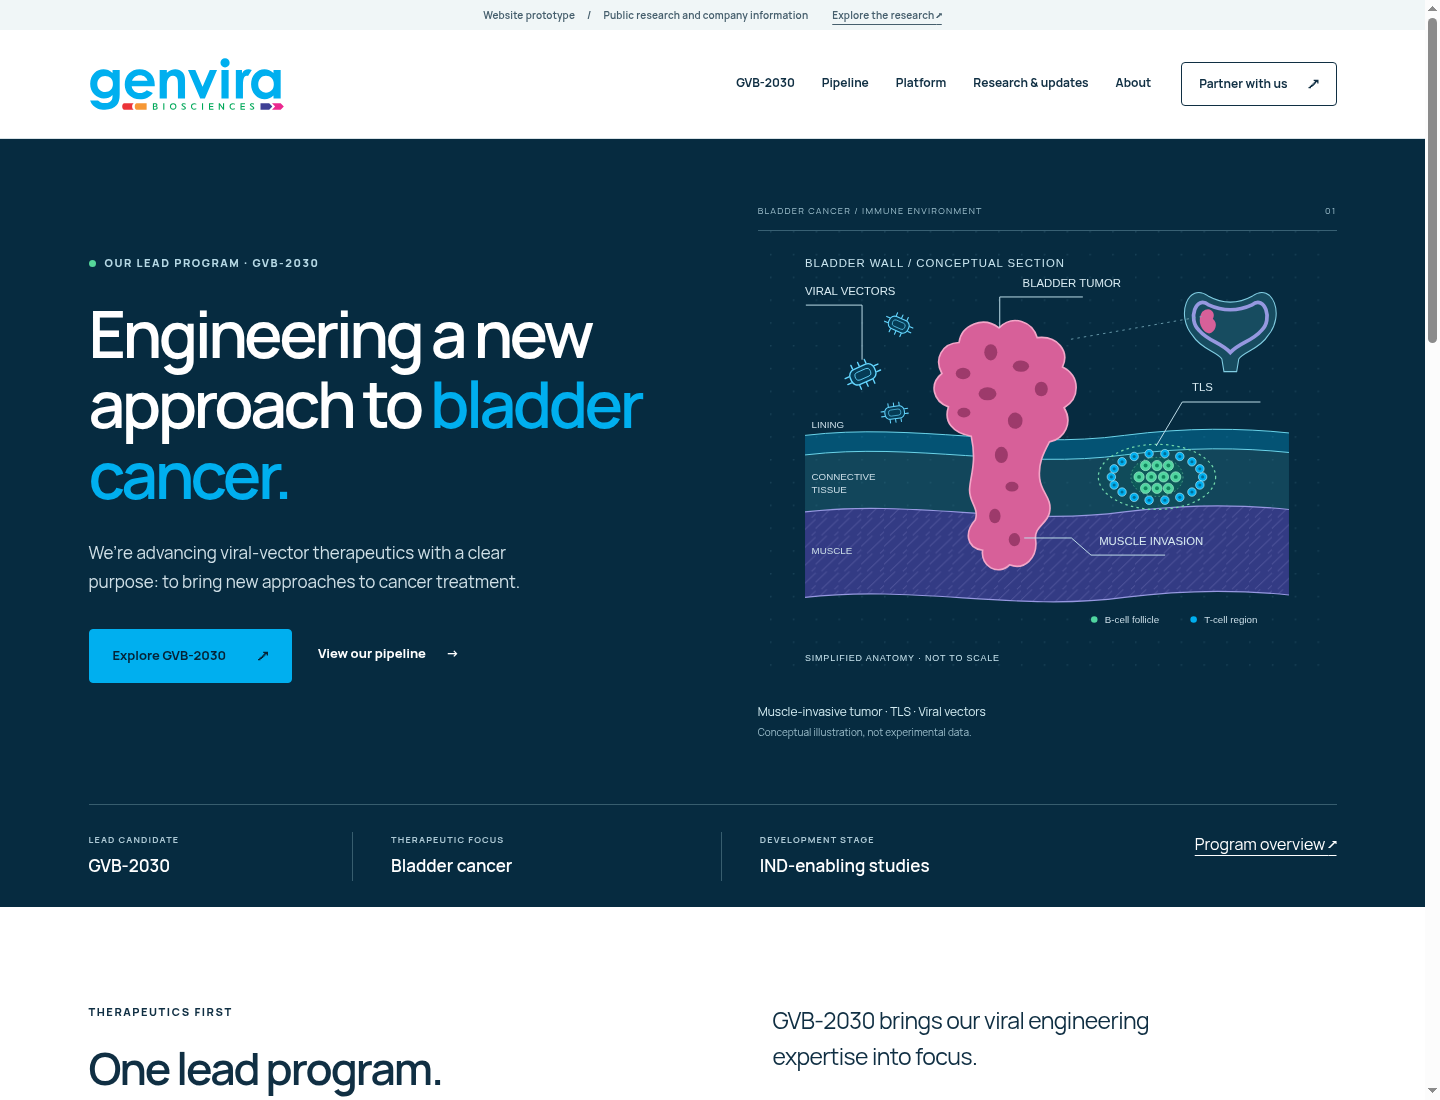
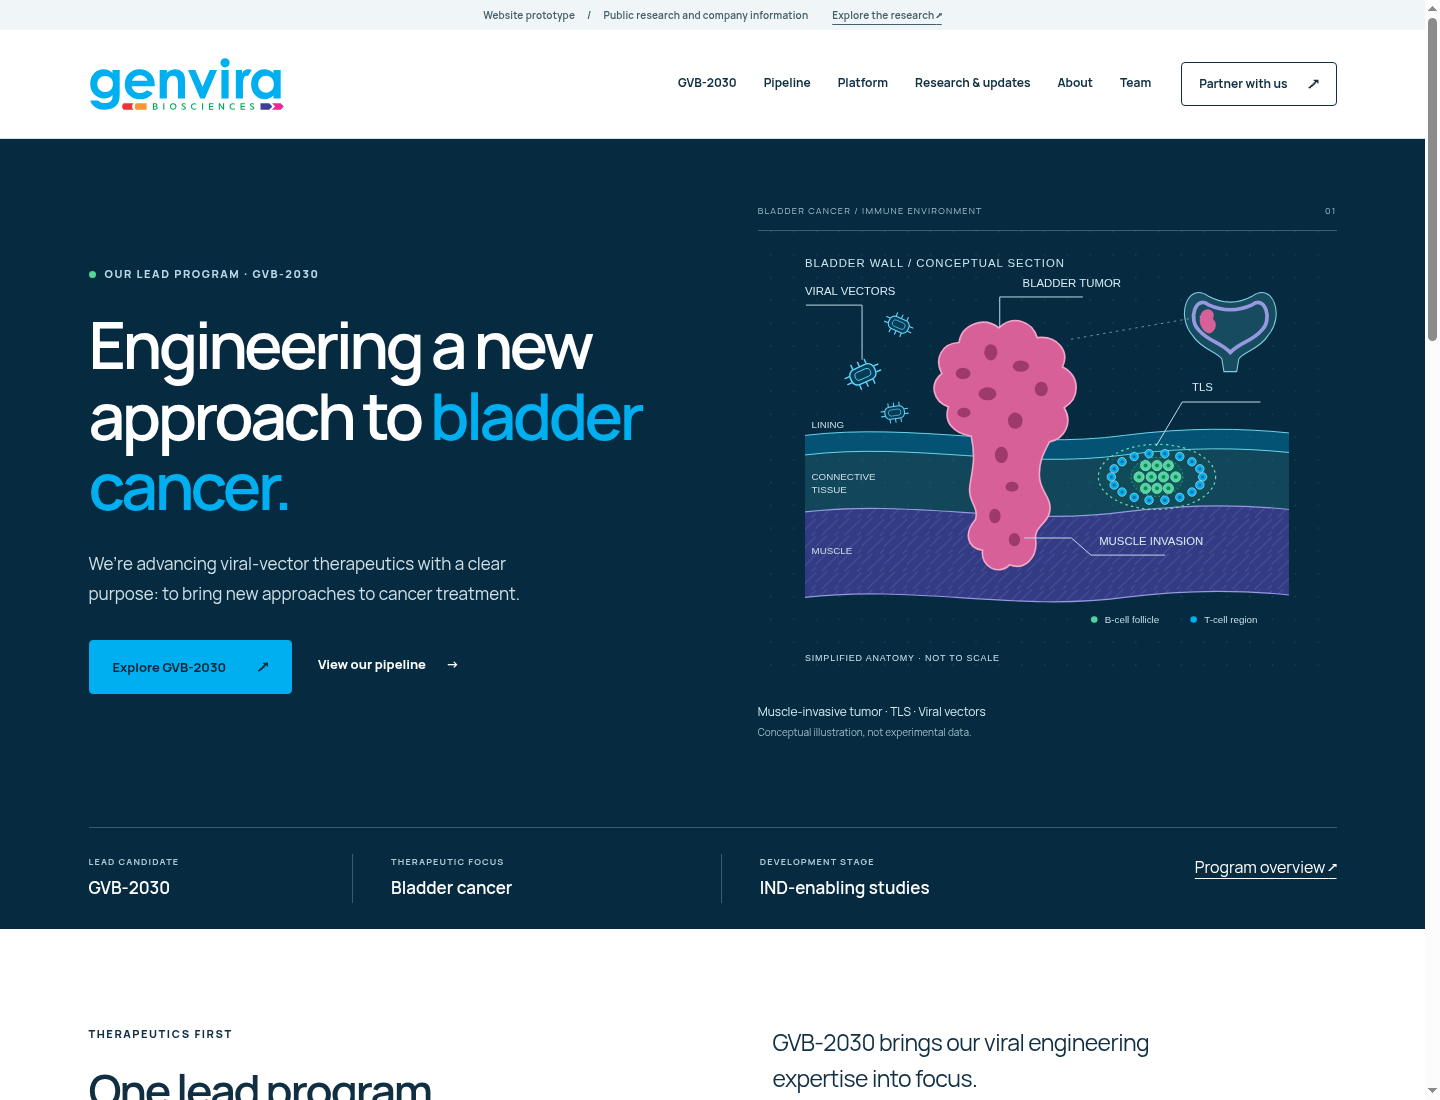
give the team a dedicated page with original bios and portraits

diff --git a/wp-content/themes/genvira/content/team.html b/wp-content/themes/genvira/content/team.html
@@ -1,0 +1,17 @@
+<nav class="team-jump shell" aria-label="Team sections"><a href="#leadership">Leadership</a><a href="#board">Board of directors</a><a href="#advisors">Advisors</a></nav>
+<section id="leadership" class="team-section"><div class="shell section"><p class="eyebrow">OUR PEOPLE</p><h2>Leadership</h2><div class="team-profiles">
+<article class="team-profile"><img src="{{asset:team-jiahu-wang.jpg}}" alt="Dr. Jiahu Wang" width="240" height="240"><div><h3>Dr. Jiahu Wang</h3><p class="team-profile-role">Founder, President</p><div class="team-profile-bio"><p>Dr. Jiahu Wang is the Founder and President of Genvira Biosciences Inc. He has spent two decades building viral vectors with a successful track record of bringing programs into the clinic.</p><p>Previously he was a cancer researcher at the Ottawa Hospital Research Institute where he led a team which designed, constructed and produced customized viral products for academic collaborators and industrial partners. Prior to that he spent 7 years working as Director, Novel Biotherapeutics at Jennerex Biotherapeutics in the U.S.</p><p>Dr. Wang completed his Postdoc in Cell Biology at the University of Virginia. He received a PhD in Chemistry from Queens University.</p></div></div></article>
+<article class="team-profile"><img src="{{asset:team-pamod-hemakumara.png}}" alt="Pamod Hemakumara" width="240" height="240"><div><h3>Pamod Hemakumara</h3><p class="team-profile-role">Corporate &amp; business development consultant</p><div class="team-profile-bio"><p>Pamod Hemakumara is a corporate and business development consultant at Genvira Biosciences Inc. He brings over a decade of experience in corporate strategy and BD across biotech, pharma, and life science sectors, having executed over $175M in transactions spanning licensing, M&amp;A, fundraising, VC investments, and strategic partnerships. Previously, Pamod was Director of Corporate Development at Quibim, where he supported the company’s Series A and led pharma and medtech partnerships. Before that, he worked with the Samsung Group on global strategy initiatives, including Samsung Biologics’ expansion into next-gen modalities such as cell and gene therapy.</p><p>He holds an MBA from IMD, a Master’s in Biomedical Technology from the University of Calgary, and a BSc in Biochemistry &amp; Molecular Biology from UNBC.</p></div></div></article>
+</div></div></section>
+<section id="board" class="team-section tinted-section"><div class="shell section"><p class="eyebrow">OUR PEOPLE</p><h2>Board of directors</h2><div class="team-profiles">
+<article class="team-profile"><img src="{{asset:team-jiahu-wang.jpg}}" alt="Dr. Jiahu Wang" width="240" height="240"><div><h3>Dr. Jiahu Wang</h3><p class="team-profile-role">Founder, President</p><div class="team-profile-bio"><p>Dr. Jiahu Wang is the founder and President of Genvira Biosciences Inc.</p><p>He has spent two decades building viral vectors with a successful track record of bringing programs into the clinic.</p></div></div></article>
+<article class="team-profile"><img src="{{asset:team-john-lin.jpg}}" alt="Dr. John Lin" width="240" height="240"><div><h3>Dr. John Lin</h3><p class="team-profile-role">Board director</p><div class="team-profile-bio"><p>Dr. John Lin is the Co-CEO of Frontage Laboratories, Inc. Before this, he served as the Executive Vice President, Bioanalytical and Biologics Services, where he led operations for the company’s global bioanalytical labs. Before joining Frontage, he served as a business leader in AstraZeneca’s global drug metabolism and pharmacokinetics (DMPK) division. Prior to AstraZeneca, Dr. Lin was Laboratory Director for Avantix Laboratories. Dr. Lin completed post-doctoral research in pharmacokinetics and metabolism at the College of Pharmacy and the Comprehensive Cancer Center of the Ohio State University. He earned a PhD in analytical chemistry from Dalhousie University in Canada.</p></div></div></article>
+<article class="team-profile"><img src="{{asset:team-jim-de-wilde.jpg}}" alt="Dr. Jim de Wilde" width="240" height="240"><div><h3>Dr. Jim de Wilde</h3><p class="team-profile-role">Board director</p><div class="team-profile-bio"><p>Dr. Jim de Wilde is a career educator and venture capitalist, Dr. de Wilde has focused on global competitiveness and the commercialization of knowledge in both the private and public sectors. Dr. de Wilde was a member of the RBC Capital Markets Technology Fund Advisory Board and currently serves on the Investment Committee of iNovia Capital in Montreal and the Advisory Board of Enertech Capital in Toronto. He has a PhD from McGill with a dissertation focusing on technology competitiveness.</p></div></div></article>
+</div></div></section>
+<section id="advisors" class="team-section"><div class="shell section"><p class="eyebrow">OUR PEOPLE</p><h2>Scientific & strategic advisors</h2><div class="team-profiles">
+<article class="team-profile"><img src="{{asset:team-john-bell.jpg}}" alt="Dr. John Bell" width="240" height="240"><div><h3>Dr. John Bell</h3><p class="team-profile-role">Advisor</p><div class="team-profile-bio"><p>John Bell is a world-renowned thought leader in cancer-fighting (oncolytic) virus research and development. He is a Senior Scientist at the Ottawa Hospital Research Institute and Professor in the Departments of Medicine and Biochemistry, Microbiology &amp; Immunology at the University of Ottawa. For more than twenty years, John and his team have been developing oncolytic viruses. He is a Co-founder of Turnstone Biologics, a San Diego company developing novel biotherapeutics to treat and cure patients with solid tumors. John is the Scientific Director of BioCanRx - Canada’s Immunotherapy Network - a not-for-profit organization working to accelerate the development of innovative immunotherapeutics, designed to save lives and enable a better quality of life for Canadian cancer patients. John was elected as a fellow of the Royal Society of Canada in 2013 and the Canadian Academy of Health Sciences in 2022. He serves on the Boards of Directors the Terry Fox Research Institute and the Biologics Manufacturing Centre. John holds Bachelor’s and Ph.D. degrees from McMaster University.</p></div></div></article>
+<article class="team-profile"><img src="{{asset:team-evan-steeg.jpg}}" alt="Dr. Evan Steeg" width="240" height="240"><div><h3>Dr. Evan Steeg</h3><p class="team-profile-role">Advisor</p><div class="team-profile-bio"><p>Dr. Evan Steeg has over 20 years of experience and deep expertise in Artificial Intelligence/Machine Learning. Evan has successfully developed and commercialized AI-driven solutions for biopharma and other industries. He was a co-founder, President and CEO of Molecular Mining Co., a firm specializing in utilizing AI to streamline pharmaceutical processes. Evan has patented inventions in data mining, AI/ML and bioinformatics. He is well versed in technology commercialization and strategic foresight. Evan Steeg holds a Ph.D. in Computer Science from the University of Toronto under the supervision of “Deep Learning” AI pioneer Prof. Geoffrey Hinton</p></div></div></article>
+<article class="team-profile"><img src="{{asset:team-georg-roth.jpg}}" alt="Dr. Georg Roth" width="240" height="240"><div><h3>Dr. Georg Roth</h3><p class="team-profile-role">Advisor</p><div class="team-profile-bio"><p>Dr. Georg Roth has over 30 years of experience in the biopharma industry. Until recently, Dr. Roth was the CTO of CG Oncology and held senior management positions at OncoMyx and KaliVir, in charge of product manufacturing. Prior to that he was the COO and SVP Technical Operations of Sillajen Biotherapeutics. Previously, he was VP at Jennerex Biotherapeutics. He also held positions at Dynavax, Berlex and Schering AG. He holds a Ph.D. in Chemical Engineering from Technical University Berlin, Germany</p></div></div></article>
+<article class="team-profile"><img src="{{asset:team-lance-wong.jpg}}" alt="Dr. Lance Wong" width="240" height="240"><div><h3>Dr. Lance Wong</h3><p class="team-profile-role">Advisor</p><div class="team-profile-bio"><p>Dr. Lance Wong has extensive experience in the biotechnology and pharmaceutical industry. Since 2019, Lance is the VP, Manufacturing at IMVAQ. Prior to this, he was the Managing Director at Strand Bio, where he acted as senior advisor or in executive roles for start-ups. Lance has worked at Bavarian Nordic, Inc. as the Director for CMC strategy, operational support for pre-BLA/-MAA. Lance also contributed to partnership deals with major pharmaceutical companies. Lance also worked at MedImmune/AstraZeneca, successfully managed regulatory filings and site inspections. Lance Wong holds a Ph.D. degree in Chemical Engineering from UCLA</p></div></div></article>
+</div></div></section>
+<div class="shell team-source"><p class="source-note">Biographies and portraits from <a href="https://genvira.com/pages/team">Genvira’s existing team page</a>.</p><a class="text-link" href="{{url:partnering}}">Connect with our team <span aria-hidden="true">↗</span></a></div>

diff --git a/wp-content/themes/genvira/content/about.html b/wp-content/themes/genvira/content/about.html
@@ -1,3 +1,3 @@
 <section class="section shell split-section"><div><p class="eyebrow">OUR COMPANY</p><h2>From research roots<br>to therapeutic development.</h2></div><div><p class="large-copy">Genvira is an Ottawa-based biotechnology company focused on viral-vector engineering.</p><p>Spun out of the Ottawa Hospital Research Institute in 2019, the company brings scientific and translational experience to the design of viral-based therapeutics.</p><p>Our focus today is advancing GVB-2030 for bladder cancer while developing a broader pipeline and working with partners.</p><p class="source-note"><a href="https://genvira.com/pages/company-history-1">Company history</a> · <a href="https://genvira.com/pages/about">Company overview</a></p></div></section>
-<section class="tinted-section"><div class="shell section"><p class="eyebrow">PEOPLE BEHIND THE WORK</p><h2>Scientific experience.<br>A shared development focus.</h2><div class="team-columns"><div><h3>Leadership</h3><details open><summary>Dr. Jiahu Wang <span>Founder & President</span></summary><p>Viral-vector scientist with experience at the Ottawa Hospital Research Institute and Jennerex Biotherapeutics.</p></details><details><summary>Pamod Hemakumara <span>Corporate & business development</span></summary><p>Works across corporate strategy and business development in biotechnology and life sciences.</p></details></div><div><h3>Board of directors</h3><details><summary>Dr. Jiahu Wang</summary><p>Founder and President of Genvira Biosciences.</p></details><details><summary>Dr. John Lin</summary><p>Biopharmaceutical leadership and bioanalytical development experience.</p></details><details><summary>Dr. Jim de Wilde</summary><p>Experience in venture capital, commercialization, and technology competitiveness.</p></details></div><div><h3>Scientific & strategic advisors</h3><details><summary>Dr. John Bell</summary><p>Oncolytic-virus research and cancer immunotherapy.</p></details><details><summary>Dr. Evan Steeg</summary><p>Artificial intelligence, machine learning, and bioinformatics.</p></details><details><summary>Dr. Georg Roth</summary><p>Biopharmaceutical manufacturing and technical operations.</p></details><details><summary>Dr. Lance Wong</summary><p>Biologics manufacturing and CMC strategy.</p></details></div></div><p class="source-note">Names and roles adapted from the <a href="https://genvira.com/pages/team">current public team page</a>. See the source for full biographies.</p></div></section>
+<section class="tinted-section"><div class="shell section split-section"><div><p class="eyebrow">PEOPLE BEHIND THE WORK</p><h2>Meet the team<br>moving our work forward.</h2></div><div><p class="large-copy">Our leadership, board, and advisors bring experience across viral-vector research, therapeutic development, manufacturing, and business strategy.</p><a class="button" href="{{url:team}}">Meet our team <span aria-hidden="true">↗</span></a></div></div></section>
 <section class="section shell"><p class="eyebrow">RESEARCH & INNOVATION ECOSYSTEM</p><h2>Supported by a Canadian network.</h2><p>Organizations acknowledged on Genvira’s current website.</p><ul class="supporter-list"><li>FedDev Ontario</li><li>Government of Ontario</li><li>Mitacs</li><li>Invest Ottawa</li><li>OBIO</li></ul><a class="text-link" href="{{url:careers}}">Interested in joining the team? <span aria-hidden="true">↗</span></a></section>

diff --git a/wp-content/themes/genvira/style.css b/wp-content/themes/genvira/style.css
@@ -17,3 +17,5 @@ text domain: genvira
 @media(max-width:640px){.pipeline-table{min-width:0}.pipeline-table caption{display:block}.pipeline-table thead{position:absolute;width:1px;height:1px;overflow:hidden;clip-path:inset(50%)}.pipeline-table tbody{display:block}.pipeline-table tbody tr{display:grid;grid-template-columns:1fr;border:1px solid var(--line);margin-bottom:20px;border-radius:4px;padding-block:8px 14px}.pipeline-table tbody th,.pipeline-table td{display:block;border:0;padding:12px 20px}.pipeline-table tbody th{border-bottom:1px solid var(--line);margin-bottom:5px}.pipeline-table td::before{content:attr(data-label);display:block;font-size:10px;text-transform:uppercase;letter-spacing:.06em;font-weight:750;color:var(--muted);margin-bottom:5px}}
 
 .tumor-context-grid{display:grid;grid-template-columns:1.15fr 1fr;gap:55px;align-items:start}.tumor-context-figure{margin:0;background:var(--navy);border-radius:5px;padding:20px}.tumor-context-figure img{width:100%}.tumor-context-figure figcaption{font-size:12px;line-height:1.7;color:#c9dce6;padding:0 16px 15px}.tumor-context-copy>p{font-size:15px;color:var(--muted)}.tumor-context-copy>h3{font-size:27px}.tumor-context-definitions{margin:28px 0}.tumor-context-definitions>div{padding:19px 0;border-top:1px solid #bbced7}.tumor-context-definitions dt{font-size:16px;font-weight:750;margin-bottom:8px}.tumor-context-definitions dd{margin:0;font-size:14px;color:var(--muted)}@media(max-width:900px){.tumor-context-grid{gap:30px;grid-template-columns:1fr}.tumor-context-figure{max-width:680px;width:100%;margin-inline:auto}}@media(max-width:640px){.tumor-context-figure{padding:8px}.tumor-context-figure figcaption{font-size:12px;padding:4px 12px 14px}}
+
+.team-jump{display:flex;flex-wrap:wrap;gap:16px 36px;padding-block:25px}.team-jump a{font-size:13px;font-weight:750}.team-profiles{margin-top:48px}.team-profile{display:grid;grid-template-columns:200px minmax(0,1fr);gap:56px;padding-block:42px;border-top:1px solid var(--line);align-items:start}.team-profile img{width:200px;aspect-ratio:1;object-fit:cover;object-position:center top;border-radius:6px;background:var(--mist)}.team-profile h3{font-size:30px;margin-bottom:8px}.team-profile-role{color:var(--cyan-dark);font-size:13px;font-weight:750;margin-bottom:24px}.team-profile-bio{max-width:800px}.team-profile-bio p{font-size:15px;line-height:1.9}.team-profile-bio p:last-child{margin-bottom:0}.team-source{padding-bottom:64px}@media(min-width:901px) and (max-width:1150px){.header-inner{gap:18px}.site-nav{gap:18px}.nav-links{gap:14px}.nav-links a{font-size:11px}.brand{width:150px}.site-nav>.button{padding-inline:12px;gap:12px}}@media(max-width:640px){.team-jump{gap:12px 24px}.team-profile{grid-template-columns:1fr;gap:24px;padding-block:32px}.team-profile img{width:160px}.team-profile h3{font-size:27px}.team-profiles{margin-top:30px}}

diff --git a/wp-content/themes/genvira/footer.php b/wp-content/themes/genvira/footer.php
@@ -6,7 +6,7 @@
     <div class="shell footer-grid">
         <div class="footer-brand"><a href="<?php echo esc_url(genvira_url()); ?>"><img src="<?php echo esc_url(get_template_directory_uri() . '/assets/logo.svg'); ?>" width="215" height="60" alt="Genvira Biosciences home"></a><p>Viral engineering.<br>Therapeutic purpose.</p><p class="small">Ottawa, Ontario, Canada</p></div>
         <div><h2>Our science</h2><a href="<?php echo esc_url(genvira_url('gvb-2030')); ?>">GVB-2030</a><a href="<?php echo esc_url(genvira_url('pipeline')); ?>">Pipeline</a><a href="<?php echo esc_url(genvira_url('platform')); ?>">Platform</a><a href="<?php echo esc_url(genvira_url('research')); ?>">Research & updates</a></div>
-        <div><h2>Our company</h2><a href="<?php echo esc_url(genvira_url('about')); ?>">About Genvira</a><a href="<?php echo esc_url(genvira_url('partnering')); ?>">Partnering</a><a href="<?php echo esc_url(genvira_url('careers')); ?>">Careers</a><a href="<?php echo esc_url(genvira_url('research-tools')); ?>">Research tools</a></div>
+        <div><h2>Our company</h2><a href="<?php echo esc_url(genvira_url('about')); ?>">About Genvira</a><a href="<?php echo esc_url(genvira_url('team')); ?>">Our team</a><a href="<?php echo esc_url(genvira_url('partnering')); ?>">Partnering</a><a href="<?php echo esc_url(genvira_url('careers')); ?>">Careers</a><a href="<?php echo esc_url(genvira_url('research-tools')); ?>">Research tools</a></div>
         <div><h2>Get in touch</h2><a href="mailto:info@genvira.com">info@genvira.com</a><a href="tel:+16136954718">+1 (613) 695-4718</a><address>310 Hunt Club Rd, Suite 304<br>Ottawa, ON K1V 1C1<br>Canada</address><a class="text-link" href="<?php echo esc_url(genvira_url('contact')); ?>">Contact us <span aria-hidden="true">↗</span></a></div>
     </div>
     <div class="shell footer-bottom"><p>© <?php echo esc_html(wp_date('Y')); ?> Genvira Biosciences Inc.</p><p>Investigational programs. Not approved for clinical use.</p><a href="<?php echo esc_url(genvira_url('privacy')); ?>">Privacy</a></div>

diff --git a/scripts/setup-prototype.php b/scripts/setup-prototype.php
@@ -33,6 +33,7 @@ $pages = [
     'platform' => ['Our platform', 'THE ENGINEERING BEHIND OUR PROGRAMS', 'Viral-vector design, characterization, and development capabilities that support our therapeutic pipeline.'],
     'research' => ['Research & updates', 'PUBLICATIONS & COMPANY NEWS', 'Explore the publications behind our work and the collaborations moving it forward.'],
     'about' => ['About Genvira', 'RESEARCH ROOTS. THERAPEUTIC PURPOSE.', 'An Ottawa-based team advancing viral-vector engineering for therapeutic development.'],
+    'team' => ['Our team', 'THE PEOPLE BEHIND GENVIRA', 'Meet our leadership, board of directors, and scientific and strategic advisors.'],
     'partnering' => ['Partnering', 'ADVANCING THROUGH COLLABORATION', 'Connect with Genvira about therapeutic programs, scientific collaboration, and strategic opportunities.'],
     'contact' => ['Contact us', 'LET’S TALK', 'Reach the Genvira team in Ottawa, Canada.'],
     'research-tools' => ['Research tools', 'TOOLS FOR RESEARCH', 'A separate research offering built on our viral-vector expertise.'],

diff --git a/wp-content/themes/genvira/functions.php b/wp-content/themes/genvira/functions.php
@@ -20,7 +20,7 @@ function genvira_url($slug = '') {
 }
 
 function genvira_navigation() {
-    $links = ['gvb-2030' => 'GVB-2030', 'pipeline' => 'Pipeline', 'platform' => 'Platform', 'research' => 'Research & updates', 'about' => 'About'];
+    $links = ['gvb-2030' => 'GVB-2030', 'pipeline' => 'Pipeline', 'platform' => 'Platform', 'research' => 'Research & updates', 'about' => 'About', 'team' => 'Team'];
     echo '<ul class="nav-links">';
     foreach ($links as $slug => $label) {
         $current = is_page($slug) ? ' aria-current="page"' : '';

diff --git a/docs/prototype.md b/docs/prototype.md
@@ -57,7 +57,7 @@ The local privacy page describes only the prototype. Final public privacy and me
 
 ## Verification
 
-The browser checks cover eleven pages at 1440 px desktop and 390 px mobile widths, four research detail pages, responsive overflow, image loading, heading structure, menu open and Escape behavior, platform steps, research type filters, search with no results, contact topic links, a JavaScript-disabled fallback, and a real 404 response. The script and its Nix QA environment are documented in the root README.
+The browser checks cover twelve pages at 1440 px desktop and 390 px mobile widths, four research detail pages, responsive overflow, image loading, heading structure, menu open and Escape behavior, platform steps, research type filters, search with no results, contact topic links, a JavaScript-disabled fallback, and a real 404 response. The script and its Nix QA environment are documented in the root README.
 
 The sanitized SQL was imported into a temporary database. Checks confirmed all eleven page summaries, fifteen prototype content markers, the selected theme, four queryable research posts, and creation of a fresh administrator with ID 1. Checksums confirmed that the restore test did not change the working database.
 
@@ -74,3 +74,5 @@ TLS are presented as organized immune-cell groups that can occur in tumor-associ
 The updated [program-page preview](tumor-context-desktop.png) shows the staging explanation and diagram together. Desktop and mobile browser checks and the static-export link checks passed for this update.
 
 The follow-up TLS reference informed the revised cell arrangement: a central green B-cell follicle with a surrounding cyan T-cell region. The SVG description and legend use those same labels. This remains a simplified two-zone schematic rather than a complete inventory of the cell types in a mature TLS.
+
+The dedicated Team page restores the full biographies and portraits from Genvira’s existing team page, grouped into leadership, directors, and advisors. Team is a primary navigation item, with an introduction from About and a footer link. All biographies remain visible without JavaScript.

diff --git a/README.md b/README.md
@@ -74,7 +74,7 @@ The `genvira` theme implements the proposed website. With `wp_dev up` running, r
 wp_dev prototype
 ```
 
-This activates the theme, creates eleven pages and four source-linked research updates, selects the homepage, and configures readable URLs. Re-running it refreshes only content marked as belonging to this prototype; back up editorial changes before doing so. Unrelated pages and posts are preserved. It refuses to replace an existing, unmarked page or post with the same slug.
+This activates the theme, creates twelve pages and four source-linked research updates, selects the homepage, and configures readable URLs. Re-running it refreshes only content marked as belonging to this prototype; back up editorial changes before doing so. Unrelated pages and posts are preserved. It refuses to replace an existing, unmarked page or post with the same slug.
 
 Open <http://localhost:8080>. Edit the seeded pages and research posts in WordPress, or change the initial content in `wp-content/themes/genvira/content` and run the setup again. Design styles and behavior live in the theme's `style.css` and `assets/site.js`. To add a research update in WordPress, create a post and assign the Publication or Company news category; those categories populate the research archive and homepage.
 
@@ -260,7 +260,7 @@ Keep Chromium running. In another terminal with the same QA environment, run:
 node scripts/check-prototype.mjs
 ```
 
-The checks cover all eleven prototype pages at desktop and mobile widths, the four research articles, menu controls, platform steps, research filtering and search, contact links, the no-JavaScript fallback, and the missing-page response. Screenshots are saved to `/tmp/genvira-prototype-qa`. Stop Chromium when finished.
+The checks cover all twelve prototype pages at desktop and mobile widths, the four research articles, menu controls, platform steps, research filtering and search, contact links, the no-JavaScript fallback, and the missing-page response. Screenshots are saved to `/tmp/genvira-prototype-qa`. Stop Chromium when finished.
 
 ## Troubleshooting
 
